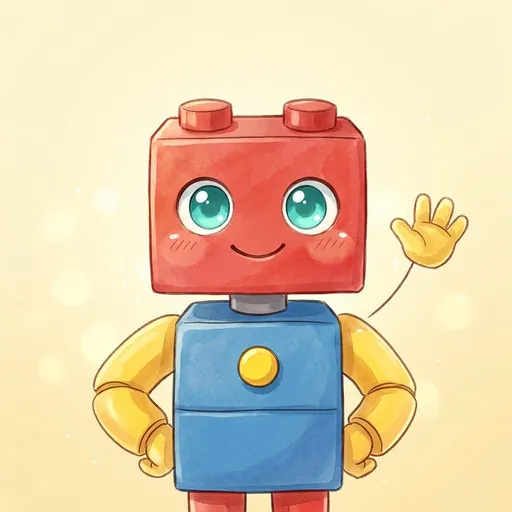
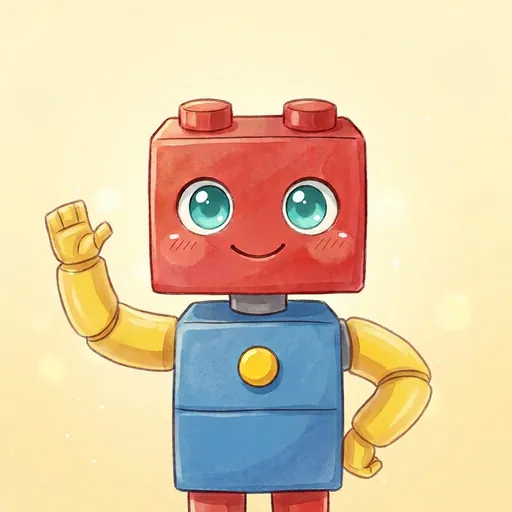
Brik corrigé : deux bras, un qui salue
Claude-Session: https://claude.ai/code/session_01VrcHt6GDhU5fN1vLaRuJ2G

diff --git a/sw.js b/sw.js
@@ -1,6 +1,6 @@
 // Service worker : permet à l'application de fonctionner hors ligne.
 // ⚠ Après chaque modification de l'app, augmentez le numéro de version ci-dessous.
-const CACHE = 'malolab-v5';
+const CACHE = 'malolab-v6';
 const ASSETS = [
   './', './index.html', './style.css', './app.js', './manifest.webmanifest',
   './icon-192.png', './icon-512.png', './apple-touch-icon.png',
